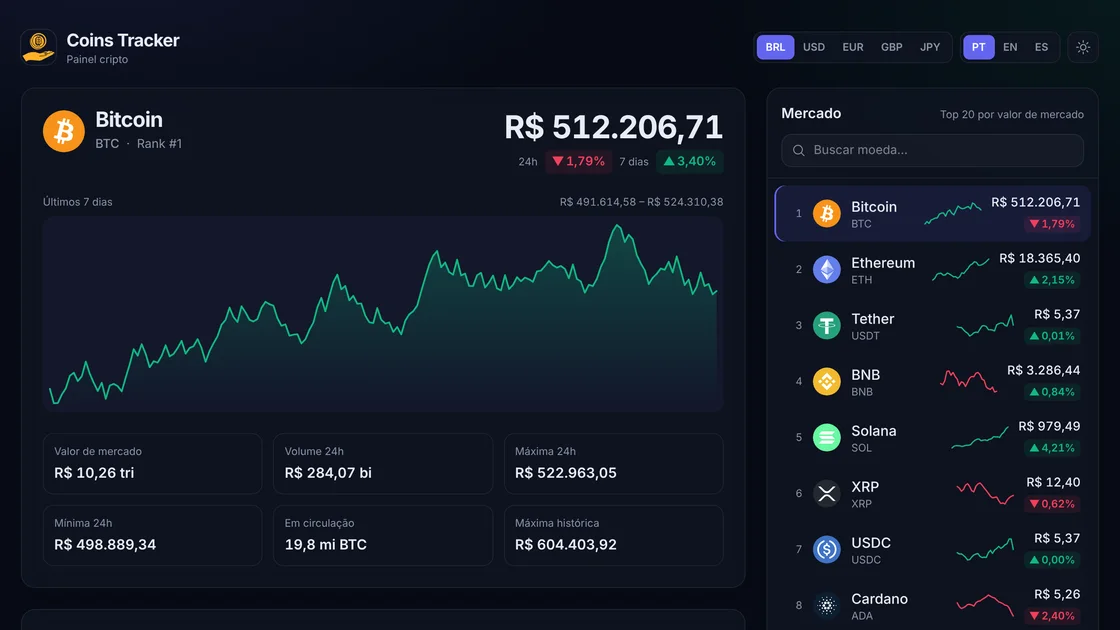
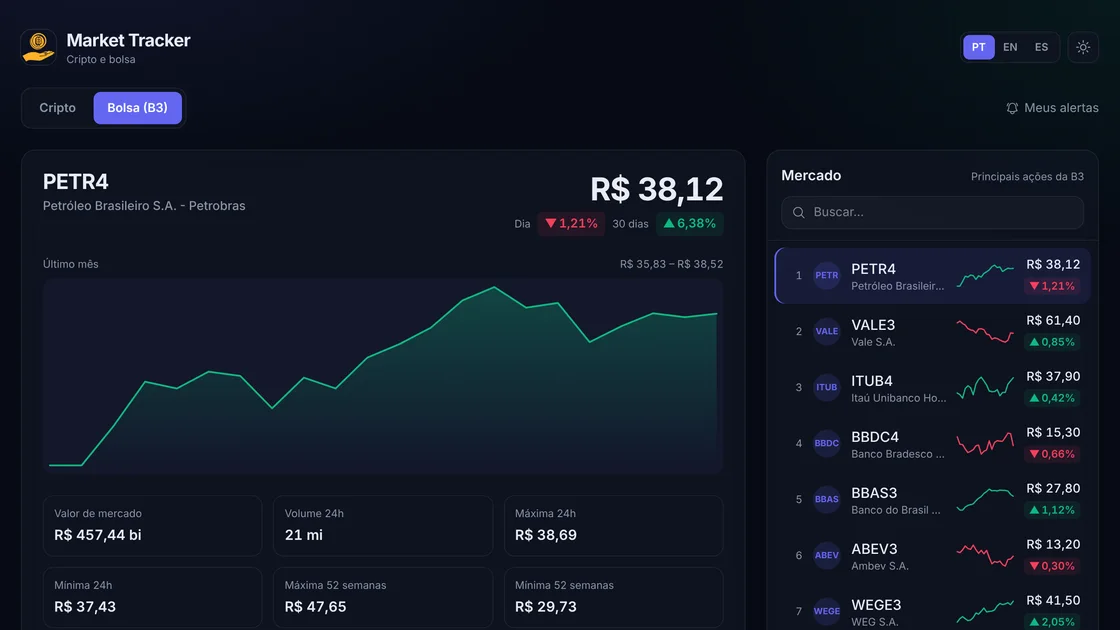
feat(projects): Coins Tracker card becomes Market Tracker (stocks + email alerts)
Claude-Session: https://claude.ai/code/session_01GEWsME5ybDQq3Y1MQZZwQ4

diff --git a/src/components/projects.tsx b/src/components/projects.tsx
@@ -42,14 +42,14 @@ const FEATURED: Project[] = [
     },
     {
         repo: "coins-tracker",
-        name: "Coins Tracker",
-        kind: { pt: "Web app · Vue 3", en: "Web app · Vue 3", es: "Web app · Vue 3" },
+        name: "Market Tracker",
+        kind: { pt: "Full stack · Vue 3 + serverless", en: "Full stack · Vue 3 + serverless", es: "Full stack · Vue 3 + serverless" },
         description: {
-            pt: "Painel cripto com as 20 maiores moedas, gráfico de 7 dias em SVG próprio, conversor nos dois sentidos e atualização automática. Cotação em 5 moedas, 3 idiomas, tema claro/escuro, testes e deploy via GitHub Actions.",
-            en: "Crypto dashboard with the top 20 coins, a hand-rolled SVG 7-day chart, two-way converter and auto-refresh. Prices in 5 currencies, 3 languages, light/dark theme, tests and deploy via GitHub Actions.",
-            es: "Panel cripto con las 20 mayores monedas, gráfico de 7 días en SVG propio, conversor en ambos sentidos y actualización automática. Cotización en 5 monedas, 3 idiomas, tema claro/oscuro, tests y deploy con GitHub Actions.",
+            pt: "Cripto e ações da B3 com gráficos e conversor, mais alertas de preço por e-mail para qualquer pessoa: confirmação por link, disparo único com rearme e cron a cada 15 min. API serverless na Vercel, Postgres, Resend e testes de integração no CI.",
+            en: "Crypto and Brazilian stocks with charts and a converter, plus email price alerts for anyone: link confirmation, fire-once with re-arm and a 15-min cron. Serverless API on Vercel, Postgres, Resend and integration tests in CI.",
+            es: "Cripto y acciones de la B3 con gráficos y conversor, más alertas de precio por correo para cualquiera: confirmación por enlace, disparo único con rearme y cron cada 15 min. API serverless en Vercel, Postgres, Resend y tests de integración en CI.",
         },
-        tags: ["Vue 3", "TypeScript", "Tailwind CSS", "VueUse", "Vitest", "GitHub Actions"],
+        tags: ["Vue 3", "TypeScript", "Vercel Functions", "PostgreSQL", "Resend", "GitHub Actions"],
         image: "/projects/coins-tracker.webp",
     },
     {
